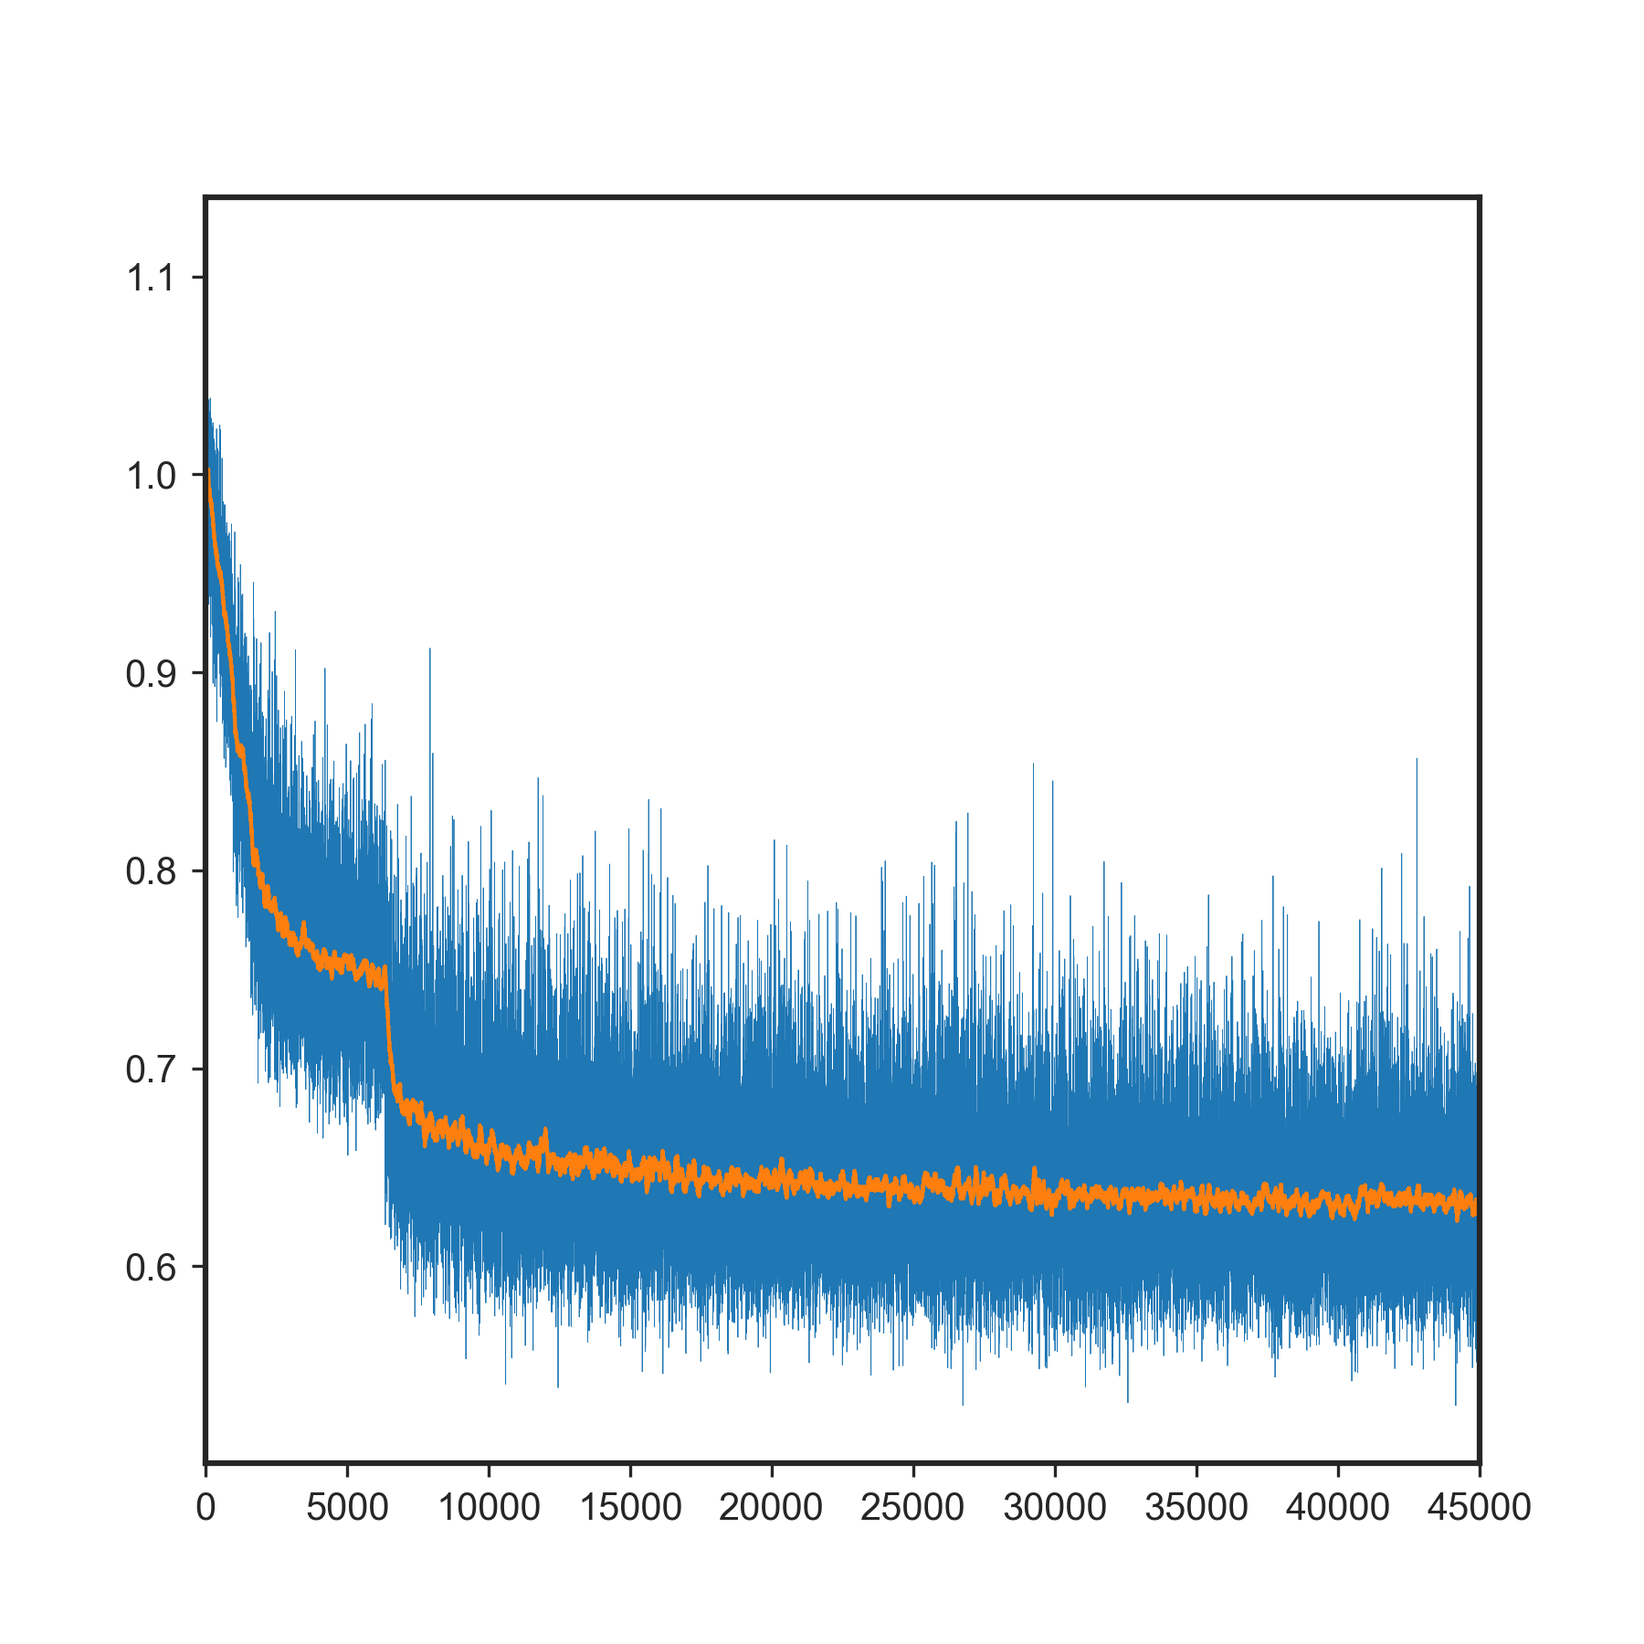
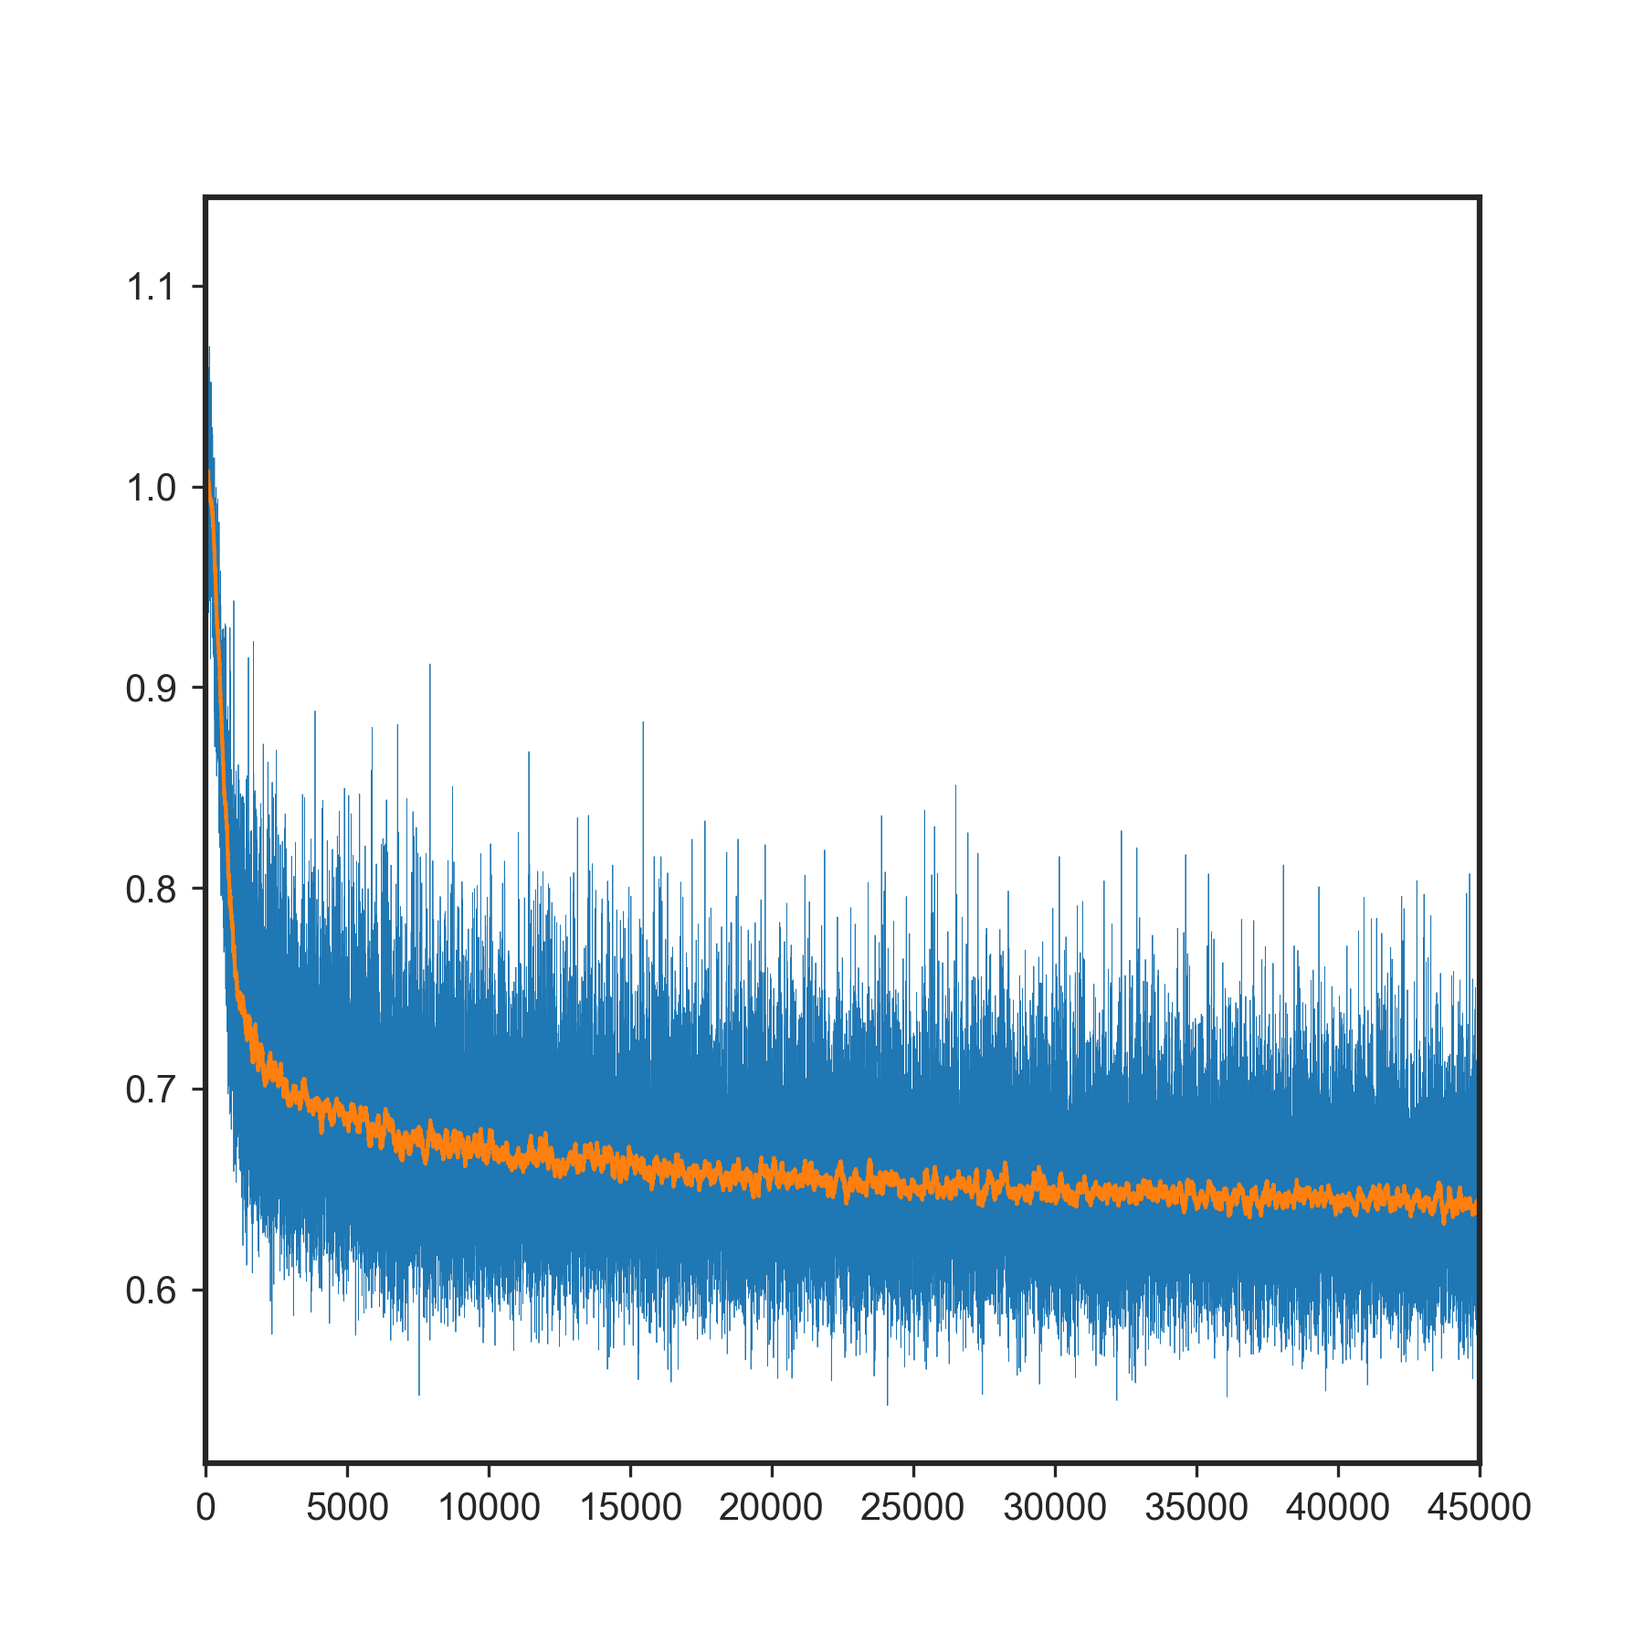
feat: add better Unet, LeNet5

Changed region(s): [[0.0622, 0.28, 0.9022, 0.84], [0.0933, 0.7467, 0.1244, 0.8089], [0.0622, 0.6533, 0.0933, 0.6844]]

diff --git a/notebooks/2_4_lenet.py b/notebooks/2_4_lenet.py
@@ -1,0 +1,98 @@
+from pathlib import Path
+
+import matplotlib.pyplot as plt
+import numpy as np
+import pandas as pd
+import torch
+from segretini_matplottini.utils.plot_utils import reset_plot_style, save_plot
+from tqdm import tqdm
+from ddpm_from_scratch.engines.mnist import (
+    get_one_element_per_digit,
+    inference,
+    load_mnist,
+)
+from ddpm_from_scratch.models.lenet5 import LeNet5
+from torch.nn.functional import binary_cross_entropy_with_logits
+
+PLOT_DIR = Path(__file__).parent.parent / "plots"
+DATA_DIR = Path(__file__).parent.parent / "data"
+
+
+#%%
+if __name__ == "__main__":
+    # Setup. This is identical to `2_1_mnist.py`, but we train a UNet with timestep conditioning.
+    np.random.seed(seed=42)
+    torch.manual_seed(seed=42)
+    reset_plot_style(xtick_major_pad=4, ytick_major_pad=4, border_width=1.5, label_pad=4)
+    PLOT_DIR.mkdir(exist_ok=True, parents=True)
+    DATA_DIR.mkdir(exist_ok=True, parents=True)
+
+    # Load the MNIST dataset.
+    mnist_train, dataloader_train, mnist_test, dataloader_test = load_mnist(DATA_DIR, batch_size=8)
+
+    # Load our LeNet5
+    model = LeNet5(num_classes=10)
+
+    # Define the optimizer.
+    optimizer = torch.optim.Adam(model.parameters())
+
+    #%% Train the model. A standard loop, iterating over the dataset.
+    epochs = 10
+    losses: list[float] = []
+    val_losses_per_epoch: list[float] = []
+    val_errors_per_epoch: list[float] = []
+    for e in range(epochs):
+        progress_bar_step = tqdm(dataloader_train, desc=f"epoch {e + 1}/{epochs}")
+        # Iterate over the dataset
+        for i, (x, y) in enumerate(progress_bar_step):
+            # Turn y into one-hot encoding
+            y_one_hot = torch.nn.functional.one_hot(y, 10).float()
+            # Zero gradients at every step
+            optimizer.zero_grad()
+            # Predict the digits
+            y_pred = model(x)
+            # Compute loss, as BCE
+            loss = binary_cross_entropy_with_logits(y_pred, y_one_hot, reduction="mean")
+            # Also compute number of errors
+            errors = (y != y_pred.argmax(axis=1)).float().mean().item()
+            # Backward step
+            loss.backward()
+            optimizer.step()
+            losses += [loss.item()]
+            if i % 100 == 0:
+                bar_suffix = {"loss": loss.item(), "errors": errors}
+                # Add validation scores if available
+                if len(val_losses_per_epoch) > 0:
+                    bar_suffix |= {"val_loss": val_losses_per_epoch[-1]}
+                if len(val_errors_per_epoch) > 0:
+                    bar_suffix |= {"val_errors": val_errors_per_epoch[-1]}
+                progress_bar_step.set_postfix(bar_suffix)
+        # Do a validation step
+        val_progress_bar_step = tqdm(dataloader_test, desc=f"validation")
+        val_losses: list[float] = []
+        val_errors: list[float] = []
+        for i, (x, y) in enumerate(val_progress_bar_step):
+            y_one_hot = torch.nn.functional.one_hot(y, 10).float()
+            with torch.inference_mode():
+                y_pred = model(x)
+                # Compute BCE and errors
+                val_loss = binary_cross_entropy_with_logits(y_pred, y_one_hot, reduction="mean").item()
+                e = (y != y_pred.argmax(axis=1)).float().mean().item()
+                val_losses += [val_loss]
+                val_errors += [e]
+        val_losses_per_epoch += [np.mean(val_losses)]
+        val_errors_per_epoch += [np.mean(val_errors)]
+
+    #%% Plot the training loss function
+    plt.figure(figsize=(6, 6))
+    plt.plot(np.arange(len(losses)), losses, lw=0.2)
+    plt.plot(np.arange(len(losses)), pd.Series(losses).rolling(100).mean(), lw=1, zorder=2)
+    plt.xlim(0, len(losses))
+    save_plot(PLOT_DIR, "2_4_loss_function.png", create_date_dir=False)
+    # Print a summary
+    print(
+        f"final validation loss: {val_losses_per_epoch[-1]:.4f}, "
+        + f"probability of error: {100 * val_errors_per_epoch[-1]:.4f}%"
+    )
+    # Save the model
+    torch.save(model.state_dict(), DATA_DIR / "lenet5.pt")

diff --git a/notebooks/2_2_mnist.py b/notebooks/2_2_mnist.py
@@ -14,8 +14,8 @@ from ddpm_from_scratch.engines.mnist import (
     load_mnist,
     train,
 )
-from ddpm_from_scratch.models.unet_simple_with_timestep import UNetSimple, UNetSimpleWithTimestep
-from ddpm_from_scratch.utils import linear_beta_schedule, scaled_linear_beta_schedule
+from ddpm_from_scratch.models.unet_simple_with_timestep import UNetSimpleWithTimestep
+from ddpm_from_scratch.utils import linear_beta_schedule
 
 PLOT_DIR = Path(__file__).parent.parent / "plots"
 DATA_DIR = Path(__file__).parent.parent / "data"
@@ -40,11 +40,11 @@ if __name__ == "__main__":
     betas = linear_beta_schedule(num_timesteps, 8e-6, 9e-5)
     ddpm = DDPM(betas, model)
 
-    # Load the MNIST dataset.
-    mnist, dataloader = load_mnist(DATA_DIR, batch_size=8)
+    # Load the MNIST dataset. Split between training and test set.
+    mnist_train, dataloader_train, mnist_test, dataloader_test = load_mnist(DATA_DIR, batch_size=8)
 
     #%% Train the model, in the same way as before.
-    losses = train(dataloader=dataloader, sampler=ddpm, optimizer=optimizer, epochs=1)
+    losses = train(dataloader=dataloader_train, sampler=ddpm, optimizer=optimizer, epochs=1)
 
     #%% Plot the loss function
     plt.figure(figsize=(6, 6))
@@ -55,13 +55,16 @@ if __name__ == "__main__":
     save_plot(PLOT_DIR, "2_2_loss_function.png", create_date_dir=False)
 
     #%% Do inference, denoising one sample digit for each category (0, 1, 2, ...)
-    x = get_one_element_per_digit(mnist)
+    x = get_one_element_per_digit(mnist_test)
     # Add noise to the digits.
     x_noisy, _ = ddpm.forward_sample(num_timesteps - 1, x)
     # Do inference, and store results into the GIF, using the callback.
-    inference(
+    x_denoised = inference(
         x=x_noisy,
         sampler=ddpm,
         callback=MnistInferenceGifCallback(filename=PLOT_DIR / "2_2_inference.gif"),
         call_callback_every_n_steps=50,
     )
+    # Compute error, as L2 norm.
+    l2 = torch.nn.functional.mse_loss(x_denoised, x, reduction="mean").item()
+    print(f"L2 norm after denoising: {l2:.6f}")

diff --git a/notebooks/2_3_unet.py b/notebooks/2_3_unet.py
@@ -15,7 +15,7 @@ from ddpm_from_scratch.engines.mnist import (
     train,
 )
 from ddpm_from_scratch.models.unet import UNet
-from ddpm_from_scratch.utils import linear_beta_schedule
+from ddpm_from_scratch.utils import cosine_beta_schedule
 
 PLOT_DIR = Path(__file__).parent.parent / "plots"
 DATA_DIR = Path(__file__).parent.parent / "data"
@@ -30,16 +30,18 @@ if __name__ == "__main__":
     PLOT_DIR.mkdir(exist_ok=True, parents=True)
     DATA_DIR.mkdir(exist_ok=True, parents=True)
 
-    # Define the denoising model.
+    # Define the denoising model. This time, use a full UNet with timestep conditioning,
+    # residual blocks, and self-attention.
     model = UNet()
     print(model)
 
     # Define the optimizer.
-    optimizer = torch.optim.Adam(model.parameters())
+    optimizer = torch.optim.Adam(model.parameters(), lr=1e-2)
 
     # Create the diffusion process.
+    # This time, we use a cosine schedule.
     num_timesteps = 1000
-    betas = linear_beta_schedule(num_timesteps, 8e-6, 9e-5)
+    betas = cosine_beta_schedule(num_timesteps)
     ddpm = DDPM(betas, model)
 
     # Load the MNIST dataset.
@@ -59,7 +61,7 @@ if __name__ == "__main__":
     #%% Do inference, denoising one sample digit for each category (0, 1, 2, ...)
     x = get_one_element_per_digit(mnist_test)
     # Add noise to the digits.
-    x_noisy, _ = ddpm.forward_sample(num_timesteps - 1, x)
+    x_noisy, _ = ddpm.forward_sample((num_timesteps - 1) // 4, x)
     # Do inference, and store results into the GIF, using the callback.
     x_denoised = inference(
         x=x_noisy,
@@ -68,5 +70,6 @@ if __name__ == "__main__":
         call_callback_every_n_steps=50,
     )
     # Compute error, as L2 norm.
-    l2 = (x_denoised - x_noisy).pow(2).sum().pow(0.5)
+    l2 = torch.nn.functional.mse_loss(x_denoised, x, reduction="mean").item()
     print(f"L2 norm after denoising: {l2:.6f}")
+

diff --git a/ddpm_from_scratch/models/unet.py b/ddpm_from_scratch/models/unet.py
@@ -62,7 +62,7 @@ class ResBlock(nn.Module):
         )
 
     def forward(
-        self, t: TensorType["B", "int"], x: TensorType["B", "C1", "H2", "W2", "float"]
+        self, t: TensorType["B", "int"], x: TensorType["B", "C1", "H1", "W1", "float"]
     ) -> TensorType["B", "C2", "H2", "W2", "float"]:
         h = self.convblock_1(x)  # First ConvBlock, from C1 to C2.
         t = expand_to_dims(self.timestep_embedding(t), x)  # Replicate time embedding to H1 and W1.
@@ -76,6 +76,7 @@ class ResBlock(nn.Module):
 class MultiheadAttention(nn.Module):
     def __init__(self, channels: int) -> None:
         super().__init__()
+        self.norm = nn.GroupNorm(num_groups=8, num_channels=channels)
         self.attention = nn.MultiheadAttention(channels, num_heads=4, batch_first=True)
 
     def forward(
@@ -83,6 +84,7 @@ class MultiheadAttention(nn.Module):
     ) -> TensorType["B", "C", "H", "W", "float"]:
         # Group together the spatial dimensions, and perform self attention by aggregating channels
         h, w = x.shape[-2:]
+        x = self.norm(x)
         x = rearrange(x, "b c h w -> b (h w) c")
         # Compute self-attention, using the same tensor for key, query, value.
         # Discard the attention matrix, using `need_weights=False` and taking the first output.
@@ -123,7 +125,7 @@ class UNet(nn.Module):
             ResBlock(in_channels=self._channels[i], out_channels=self._channels[i + 1], down=True)
             for i in range(len(self._channels) - 1)
         )
-        # Middle layer. Add attention on the timestep.
+        # Middle layer. Self-attention.
         self.middle_layers = nn.ModuleList(
             [
                 ResBlock(in_channels=self._channels[-1], out_channels=self._channels[-1]),

diff --git a/ddpm_from_scratch/utils.py b/ddpm_from_scratch/utils.py
@@ -103,6 +103,30 @@ def scaled_linear_beta_schedule(
     return linear_beta_schedule(num_timesteps, β_start**0.5, β_end**0.5, num_train_timesteps) ** 2
 
 
+def cosine_beta_schedule(
+    num_timesteps: int = 1000, s: float = 0.008
+) -> TensorType["T"]:
+    """
+    Create a variance schedule (`beta schedule`) with a cosine progression.
+    Nichol et al. (https://arxiv.org/pdf/2102.09672.pdf) found that this schedule distributes
+    noise more evenly over the time range, instead of having a sharp reduction as in a liner schedule.
+
+    :param num_timesteps: number of values in the generated schedule.
+    :param s: smoothing applied to the cosine schedule. The schedule follows a perfect cosine for `s = 0`,
+        while for large `s` it will decrease faster to 0.
+    :return: the generated beta schedule
+    """
+    t = torch.arange(0, num_timesteps + 1)
+    # α_hat are defined so that α is 1 at timestep 0, 0 at timestep `num_timestep`,
+    # and the progression follows a cosine curve, with a smoothing controlled by `s`.
+    # Each x_t is a Gaussian with mean α_hat_t.
+    α_hat = torch.cos(((t / num_timesteps + s) / (1 + s)) * (torch.pi / 2)) ** 2
+    α_hat = α_hat / α_hat[0]  # Ensure that α_hat[0] is 1
+    β = 1 - α_hat[1:] / α_hat[:-1]  # α = α_hat[1:] / α_hat[:-1], β = 1 - α
+    β = torch.clamp(β, 0, 0.999)
+    return β
+
+
 def expand_to_dims(x: torch.Tensor, y: torch.Tensor):
     """
     Expand the shape of `x` to match the number of dimensions of `y`, by adding

diff --git a/ddpm_from_scratch/models/lenet5.py b/ddpm_from_scratch/models/lenet5.py
@@ -1,0 +1,38 @@
+import torch.nn as nn
+from einops import rearrange
+
+class LeNet5(nn.Module):
+    def __init__(self, num_classes: int):
+        """
+        An implementation of Lenet5. Use ReLU instead of Tanh, and MaxPool2d instead of AveragePool2d.
+        Source: https://blog.paperspace.com/writing-lenet5-from-scratch-in-python/
+
+        :param num_classes: number of classes to predict. For example, 10 in MNIST.
+        """
+        super().__init__()
+        self.block_1 = nn.Sequential(
+            nn.Conv2d(1, 6, kernel_size=5, stride=1, padding=0),
+            nn.ReLU(),
+            nn.MaxPool2d(kernel_size=2, stride=2),
+        )
+        self.block_2 = nn.Sequential(
+            nn.Conv2d(6, 16, kernel_size=5, stride=1, padding=0),
+            nn.ReLU(),
+            nn.MaxPool2d(kernel_size=2, stride=2),
+        )
+        self.fc_1 = nn.Linear(256, 120)
+        self.relu_1 = nn.ReLU()
+        self.fc_2 = nn.Linear(120, 84)
+        self.relu_2 = nn.ReLU()
+        self.fc_3 = nn.Linear(84, num_classes)
+
+    def forward(self, x):
+        x = self.block_1(x)
+        x = self.block_2(x)
+        x = rearrange(x, "b c h w -> b (c h w)")  # Flatten features for fully connected layers.
+        x = self.fc_1(x)
+        x = self.relu_1(x)
+        x = self.fc_2(x)
+        x = self.relu_2(x)
+        x = self.fc_3(x)
+        return x

diff --git a/notebooks/1_1_spiral.py b/notebooks/1_1_spiral.py
@@ -106,8 +106,11 @@ if __name__ == "__main__":
     # Note to the reader: the coefficient of β_end is the same as in
     # "Denoising diffusion probabilistic models from first principles".
     # However, this coefficient does not ensure that the q(x_T) has unitary variance and zero mean.
-    # I don't know why this coefficient was chosen, but I suspect that the inference ability of a model trained
-    # in this way is suboptimal.
+    # The author don't say why: I imagine it's because we are doing a denoising task, not a generation task.
+    # It is not reasonable to fully denoise an image if we start from pure Gaussian noise.
+    # So, we ensure that the maximum amount of noise being added is still something we can recover from.
+    # In later notebooks we switch to a generative task, and use coefficients 
+    # that guarantee unitary variance and zero mean.
     num_timesteps = 40
     βs = linear_beta_schedule(num_timesteps, 8e-6, 9e-5)
 

diff --git a/ddpm_from_scratch/engines/mnist.py b/ddpm_from_scratch/engines/mnist.py
@@ -115,7 +115,7 @@ def train(dataloader: DataLoader, sampler: DDPM, optimizer: Optimizer, epochs: i
             # Predict the noise
             _, predicted_noise = sampler.predict_x_0_and_noise(t, x_noisy)
             # Compute loss, as L2 of real and predicted noise
-            loss = torch.mean((noise - predicted_noise) ** 2)
+            loss = torch.nn.functional.mse_loss(predicted_noise, noise, reduction="mean")
             # Backward step
             loss.backward()
             optimizer.step()

diff --git a/README.md b/README.md
@@ -16,10 +16,24 @@ poetry install
 
 Notebooks inside `notebooks` follow the original blogs. You can run them to obtain plots similar to the ones in the blogs, and look at the commented code to understand what's going on under the hood.
 
+### Denoising the spiral
+
+In the first part, we learn how to create a DDPM using a toy problem: denoising a spiral. 
+
 * `1_1_spiral.py`. Create a Gaussian distribution, and create a sprial. Also define a *variance schedule*, a.k.a. the `β schedule`, and progressively add noise to the spiral.
 * `1_2_gaussian_diffusion.py`. Here we create a Gaussian Diffusion process, with forward and backward processes that we can use for sampling. We add again noise to the spiral, but this time using the forward process. We also define the backward process to iteratively remove the noise we added, but since we don't have a noise prediction model yet, we can't really denoise the spiral! 
 * `1_3_train_denoiser.py`. Here we rewrite the Gaussian Diffusion process using Pytorch, and define a simple model that we plug into the Gaussian Diffusion process. We train it, and show that we can finally denoise the spiral.
 * `1_4_plot_coefficients.py`. What do the coefficients of a DDPM look like? How are the boundary values of `β schedule` chosen? What's the intuition behind the DDPM posterior process? Here we visualize the coefficients of DDPM, and answer these questions.
+
+### Tackling MNIST
+
+In the second part, we build a realistic UNet to denoise the MNIST dataset, and learn how to evaluate the quality of a diffusion model.
+
+* `2_1_mnist.py`. Let's create a very simple UNet without time-step conditioning, and see if we can use it to denoise MNIST digits. Surprisingly, it works well even without any information on the time-step. There's still room to improve though.
+* `2_2_mnist.py`. Here we modify the UNet to have conditioning on the time-step. It turns out that results are not much different than before, hinting that the model might be too simple for the task.
+* `2_3_unet.py`. In this notebook, we train a much more complex UNet, not too different from the ones you might see in real papers. It has ResNet blocks, self-attention blocks, and time-step conditioning. Also, we use a cosine `β schedule` to improve the quality of the diffusion process. Results are significantly better than before!
+* `2_4_lenet.py`. Although we can evaluate the quality of denosing with a simple L2 norm, measuring the quality of digits generated from scratch is more difficult. We'll use FID, a distance that measures the distribution shift between features of real and generated digits. To compute this metric, we need a classifier, or some other kind of model trained on the images that we want to generate. So, we train a simple LeNet5, and we will later use it to compute the FID.
+* `2_5_fid.py`. In this notebook, we finally generate some digits, and measure their quality when compared to the real digits, using FID. 
 
 ## References
 
